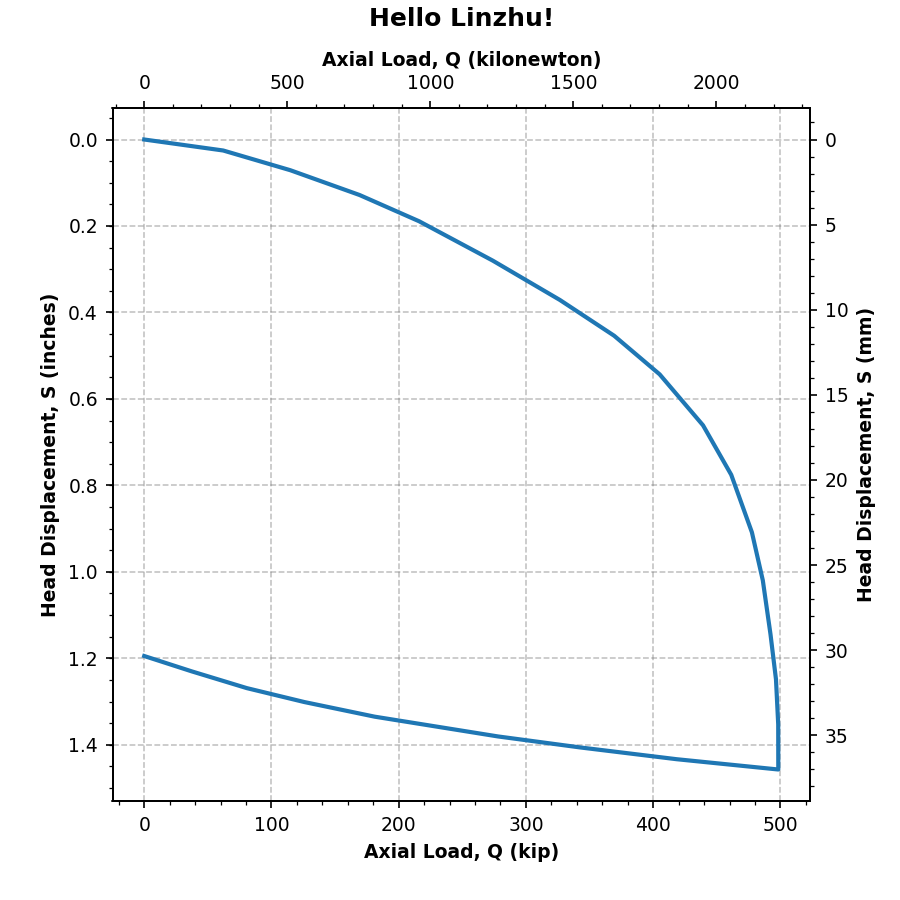
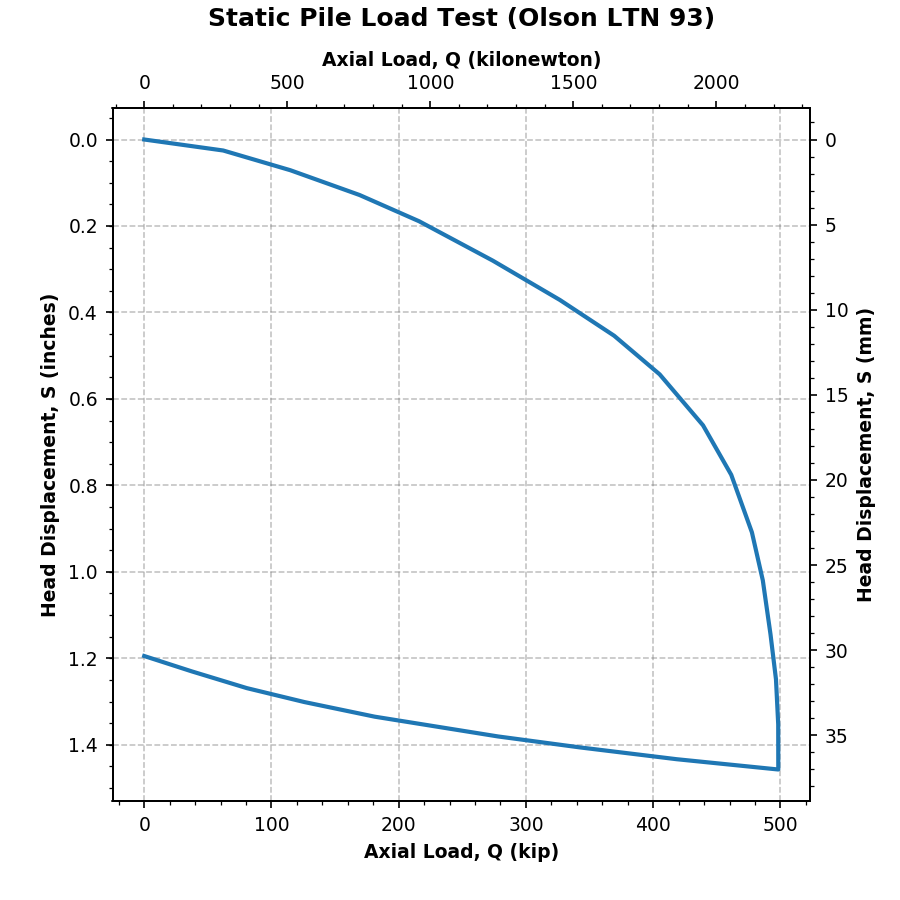
minor edits

Changed region(s): [[0.2178, 0.0, 0.8089, 0.0311]]

diff --git a/docs/deepfoundations/load_tests.rst b/docs/deepfoundations/load_tests.rst
@@ -6,7 +6,7 @@ Pile Load Tests
 
 ``edafos`` implements the load test interpretation methods presented below. In
 order to demonstrate each method, a static load test of a driven H-Pile is
-used (:numref:`load-test-example-auto`), taken out of Dr. Olson's database.
+used (:numref:`load-test-example-auto`), taken from Dr. Olson's database.
 
 - HP14X89
 - total length: 55 ft (16.76 m)
@@ -40,7 +40,7 @@ used (:numref:`load-test-example-auto`), taken out of Dr. Olson's database.
               (37.31181587, 1.230170784), (0, 1.194708257)]
 
    lt = LoadTest(unit_system='English',
-                 name='Hello Linzhu!',
+                 name='Static Pile Load Test (Olson LTN 93)',
                  loadtest_type='static',
                  qs_data=lt_data,
                  pile=pile)
@@ -65,8 +65,8 @@ used (:numref:`load-test-example-auto`), taken out of Dr. Olson's database.
 Davisson Offset Limit
 *********************
 
-The Davisson method, proposed by M.T. Davisson (1972) :cite:`Davisson1972-yd`,
+The Davisson method, proposed by M. T. Davisson :cite:`Davisson1972-yd`,
 determines that the failure load corresponds to an allowable settlement which
-occurs at
+occurs a
 
 
